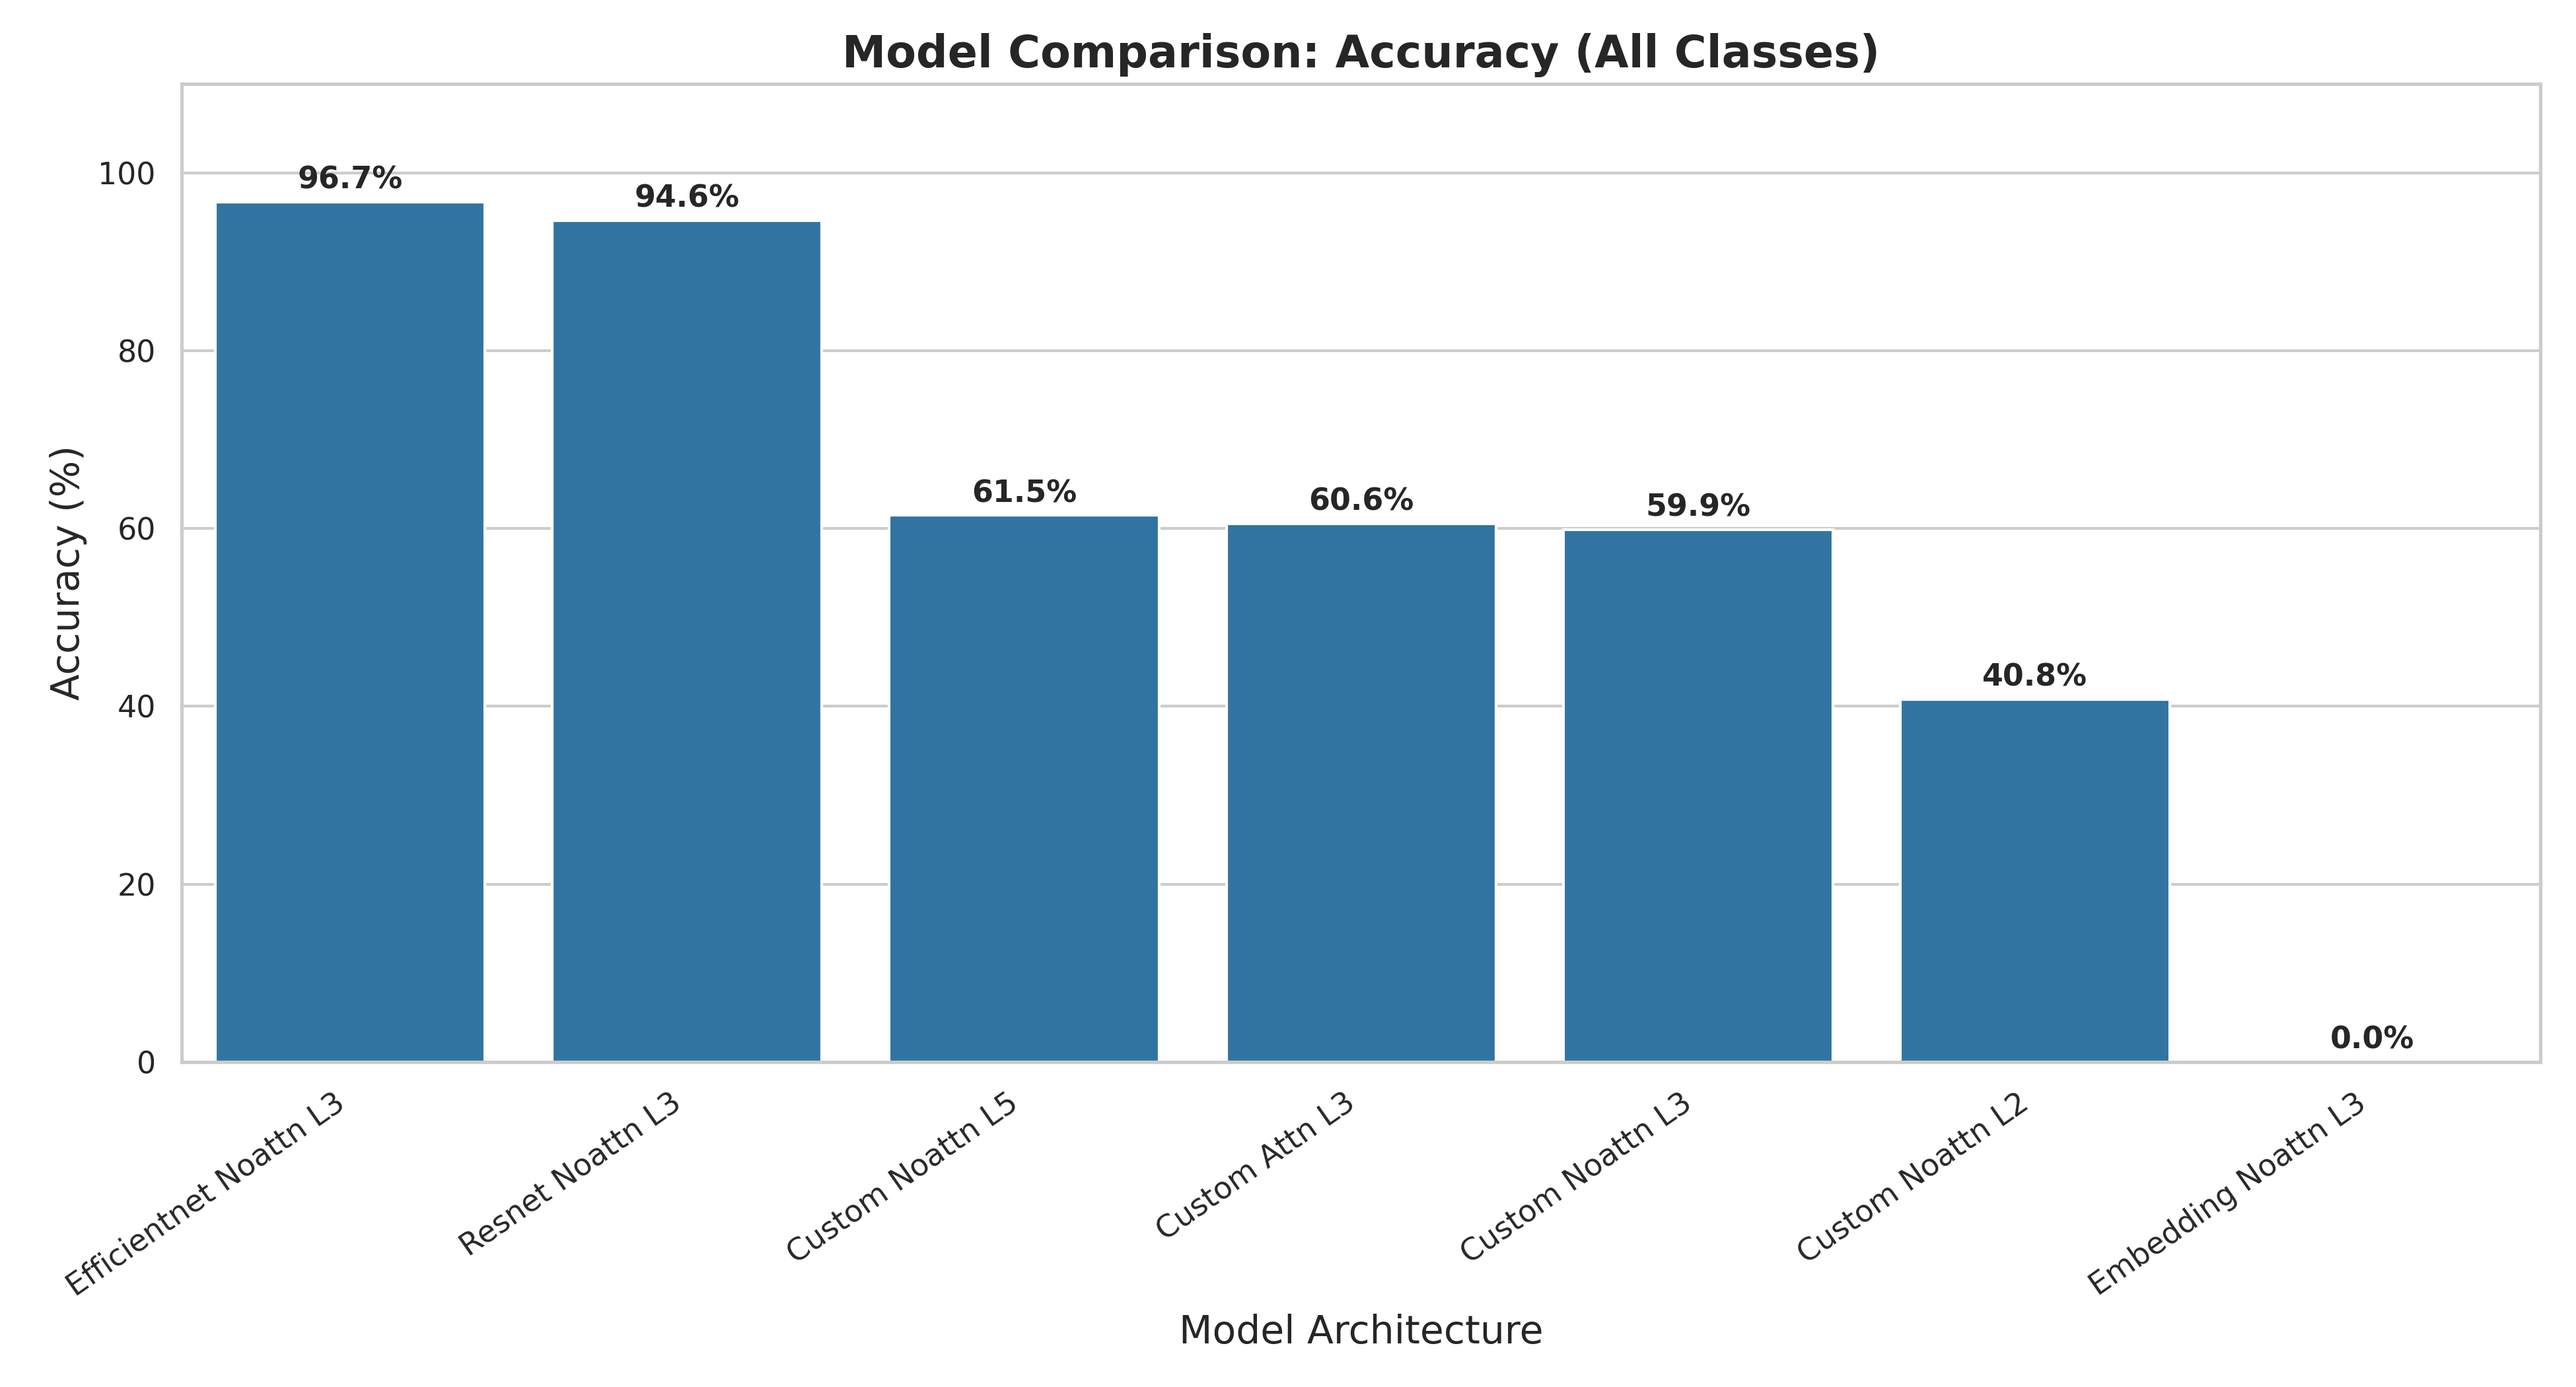
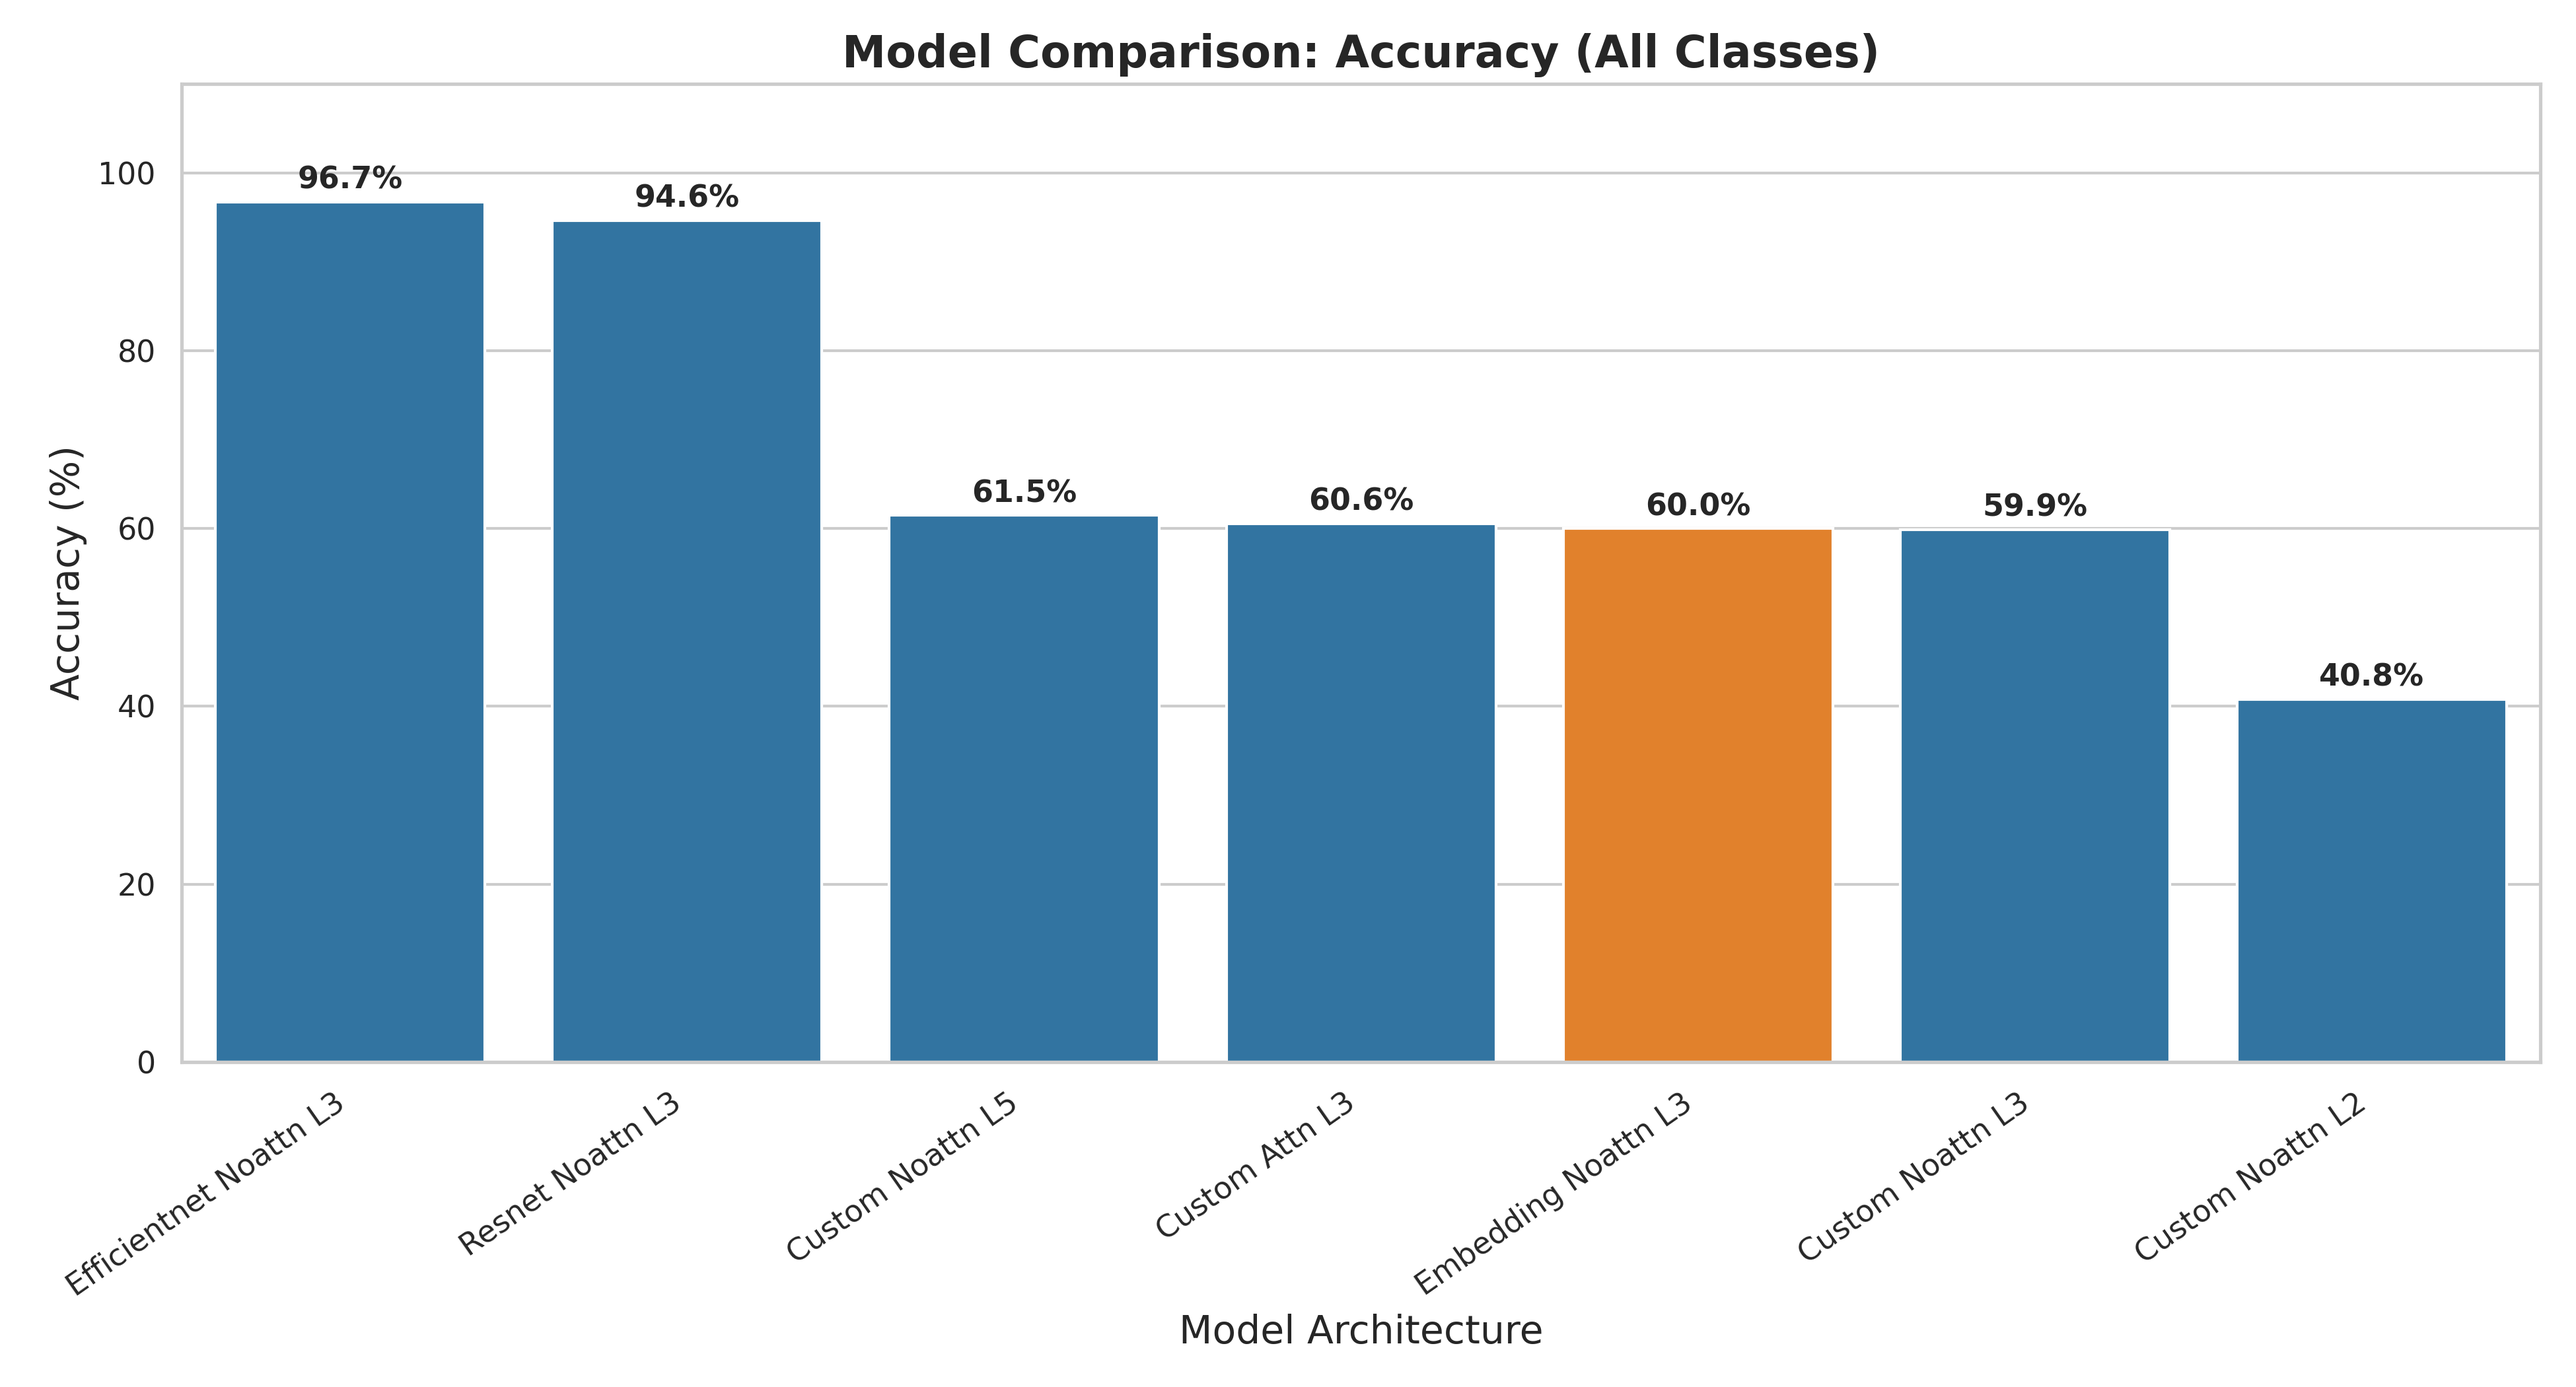
right embedding model

diff --git a/src/evaluate.py b/src/evaluate.py
@@ -1,11 +1,16 @@
 import argparse
 import json
+import os
 import torch
+import numpy as np
 import matplotlib.pyplot as plt
 import seaborn as sns
-import pandas as pd
+from tqdm import tqdm
 from torch.utils.data import DataLoader
-from sklearn.metrics import classification_report, confusion_matrix
+from sklearn.metrics import confusion_matrix
+from sklearn.neighbors import KNeighborsClassifier
+from sklearn.metrics.pairwise import cosine_similarity
+
 from config import *
 from data import SmartBirdDataset
 from models import get_model
@@ -24,14 +29,72 @@ def evaluate_model(exp_name, model_type, use_attention, cnn_layers):
     model.eval()
 
     all_preds, all_labels = [],[]
-    with torch.no_grad():
-        for inputs, labels in loader:
-            outputs = model(inputs.to(DEVICE))
-            _, preds = torch.max(outputs, 1)
-            all_preds.extend(preds.cpu().numpy())
-            all_labels.extend(labels.numpy())
 
-    acc = sum(p == l for p, l in zip(all_preds, all_labels)) / len(all_labels)
+    if model_type == "embedding":
+        all_embeddings =[]
+        with torch.no_grad():
+            for inputs, labels in tqdm(loader, desc="Extrahiere Embeddings"):
+                embeddings = model(inputs.to(DEVICE))
+                all_embeddings.extend(embeddings.cpu().numpy())
+                all_labels.extend(labels.numpy())
+
+        all_embeddings = np.array(all_embeddings)
+        all_labels = np.array(all_labels)
+
+        print("\nBerechne Genauigkeit mit K-Nearest-Neighbor (k=5)...")
+        knn = KNeighborsClassifier(n_neighbors=5, metric='cosine')
+        knn.fit(all_embeddings, all_labels)
+        knn_preds = knn.predict(all_embeddings)
+        acc_knn = sum(knn_preds == all_labels) / len(all_labels)
+
+        print("Berechne Genauigkeit mit ArcFace Klassenzentren...")
+        arcface_path = os.path.join(MODELS_DIR, f"{exp_name}_arcface.pth")
+
+        centers = np.zeros((len(classes), all_embeddings.shape[1]))
+        if os.path.exists(arcface_path):
+            print(" -> Lade gespeicherte ArcFace-Gewichte aus Datei...")
+            arcface_state = torch.load(arcface_path, map_location='cpu')
+
+            if 'W' in arcface_state:
+                centers = arcface_state['W'].numpy()
+            else:
+                centers = list(arcface_state.values())[0].numpy()
+        else:
+            print(" -> Keine ArcFace-Gewichte gefunden (Modell wurde vorher trainiert).")
+            print(" -> Berechne theoretische Klassenzentren aus den Daten als Fallback...")
+            for i in range(len(classes)):
+                class_embs = all_embeddings[all_labels == i]
+                if len(class_embs) > 0:
+                    centers[i] = np.mean(class_embs, axis=0)
+
+        centers = centers / (np.linalg.norm(centers, axis=1, keepdims=True) + 1e-8)
+
+        sims = cosine_similarity(all_embeddings, centers)
+        centroid_preds = np.argmax(sims, axis=1)
+        acc_centroid = sum(centroid_preds == all_labels) / len(all_labels)
+
+        print(f"\nErgebnisse:")
+        print(f" -> k-NN Accuracy: {acc_knn:.2%}")
+        print(f" -> Centroid / ArcFace Accuracy: {acc_centroid:.2%}")
+
+        if acc_centroid >= acc_knn:
+            all_preds = centroid_preds
+            acc = acc_centroid
+            print("=> Verwende ArcFace-Zentren für die finale Auswertung.\n")
+        else:
+            all_preds = knn_preds
+            acc = acc_knn
+            print("=> Verwende k-NN für die finale Auswertung.\n")
+
+    else:
+        with torch.no_grad():
+            for inputs, labels in tqdm(loader, desc="Evaluiere"):
+                outputs = model(inputs.to(DEVICE))
+                _, preds = torch.max(outputs, 1)
+                all_preds.extend(preds.cpu().numpy())
+                all_labels.extend(labels.numpy())
+
+        acc = sum(p == l for p, l in zip(all_preds, all_labels)) / len(all_labels)
 
     cm = confusion_matrix(all_labels, all_preds)
     plt.figure(figsize=(12, 10))
@@ -50,14 +113,14 @@ def evaluate_model(exp_name, model_type, use_attention, cnn_layers):
 def main():
     parser = argparse.ArgumentParser()
 
-    parser.add_argument("--model", choices=["custom", "resnet", "efficientnet"], required=True)
+    parser.add_argument("--model", choices=["custom", "resnet", "efficientnet", "embedding"], required=True)
     parser.add_argument("--use-attention", action="store_true")
     parser.add_argument("--cnn-layers", type=int, default=3)
     args = parser.parse_args()
 
     exp_name = f"{args.model}_task-species_attn-{args.use_attention}_layers-{args.cnn_layers}"
     acc = evaluate_model(exp_name, args.model, args.use_attention, args.cnn_layers)
-    print(f"\n {exp_name} Accuracy: {acc:.2%}")
+    print(f"\n {exp_name} Finale Accuracy: {acc:.2%}")
 
     logs_dir = os.path.join(VISUALS_DIR, "logs")
     os.makedirs(logs_dir, exist_ok=True)
@@ -68,7 +131,7 @@ def main():
         with open(cache_file, "r") as f:
             cache = json.load(f)
 
-    cache[exp_name] = acc * 100
+    cache[exp_name] = float(acc * 100)
 
     with open(cache_file, "w") as f:
         json.dump(cache, f, indent=4)

diff --git a/src/experiments/plot_top_errors.py b/src/experiments/plot_top_errors.py
@@ -17,8 +17,8 @@ from models import get_model
 
 def get_distractor_indices(classes):
     non_bird_keywords =[
-        'cricket', 'frog', 'toad', 'cicada', 'bat', 'grasshopper', 
-        'katydid', 'roesel', 'mouse', 'mole', 'shrew', 'squirrel', 
+        'cricket', 'frog', 'toad', 'cicada', 'bat', 'grasshopper',
+        'katydid', 'roesel', 'mouse', 'mole', 'shrew', 'squirrel',
         'deer', 'fox', 'wolf', 'marmot', 'locust', 'insect', 'bush-cricket'
     ]
     bird_idx, distractor_idx = [],[]
@@ -31,23 +31,22 @@ def get_distractor_indices(classes):
 
 def main():
     print("Lade Datensatz und Modell für Fehleranalyse...")
-    
+
     exp_name = "efficientnet_task-species_attn-False_layers-3"
     classes_path = os.path.join(MODELS_DIR, f"{exp_name}_classes.json")
-    
+
     with open(classes_path, "r") as f:
         classes = json.load(f)['classes']
-        
+
     bird_idx_set, distractor_idx = get_distractor_indices(classes)
 
     model = get_model("efficientnet", len(classes)).to(DEVICE)
     model.load_state_dict(torch.load(os.path.join(MODELS_DIR, f"{exp_name}_best.pth"), map_location=DEVICE))
     model.eval()
 
-    # Nutze das Test-Set
     dataset = SmartBirdDataset(mode='test', task='species')
     loader = DataLoader(dataset, batch_size=64, shuffle=False, num_workers=4)
-    
+
     error_counter = Counter()
 
     print("\nScanne Testdaten und sammle Verwechslungen...")
@@ -55,59 +54,51 @@ def main():
         for inputs, labels in tqdm(loader, desc="Evaluiere"):
             inputs = inputs.to(DEVICE)
             logits = model(inputs)
-            
-            # WICHTIG: Setze die Wahrscheinlichkeit für Insekten/Amphibien auf minus unendlich!
-            # Dadurch WIRD das Modell gezwungen, einen Vogel zu raten.
+
             logits[:, distractor_idx] = -float('inf')
-            
+
             preds = logits.argmax(dim=1).cpu().numpy()
             labels = labels.numpy()
-            
+
             for true_idx, pred_idx in zip(labels, preds):
-                # Wir werten nur Aufnahmen aus, auf denen wirklich ein Vogel zu hören ist
+
                 if true_idx in bird_idx_set:
                     if true_idx != pred_idx:
                         true_name = classes[true_idx]
                         pred_name = classes[pred_idx]
-                        # Erstelle einen lesbaren String für das Diagramm
+
                         pair_str = f"Wahr: {true_name}\nKI rät: {pred_name}"
                         error_counter[pair_str] += 1
 
-    # Hole die Top 15 Verwechslungen
     top_errors = error_counter.most_common(15)
-    
+
     if not top_errors:
         print("Keine Fehler gefunden?! Dein Modell ist zu gut.")
         return
-        
-    # Daten für Plotting vorbereiten
+
     error_labels = [item[0] for item in top_errors]
     error_counts = [item[1] for item in top_errors]
-    
-    # --- PLOTTING ---
+
     plt.figure(figsize=(12, 10))
     sns.set_theme(style="whitegrid")
-    
-    # Farbverlauf von Rot (häufigster Fehler) zu Orange
+
     palette = sns.color_palette("flare", len(error_labels))[::-1]
-    
+
     ax = sns.barplot(x=error_counts, y=error_labels, palette=palette)
-    
+
     plt.title("Die 15 häufigsten KI-Verwechslungen (Nur Vögel)", fontsize=16, fontweight='bold', pad=20)
     plt.xlabel("Anzahl der Fehlklassifikationen im Test-Set", fontsize=14)
     plt.ylabel("", fontsize=12)
-    
-    # Zahlenwerte an die Balken schreiben
+
     for i, v in enumerate(error_counts):
         ax.text(v + 0.5, i + 0.1, str(v), color='black', fontweight='bold', fontsize=12)
 
-    # Etwas Platz rechts lassen, damit die Zahlen nicht abgeschnitten werden
     plt.xlim(0, max(error_counts) * 1.15)
-    
+
     plt.tight_layout()
     out_path = os.path.join(VISUALS_DIR, "top_errors.png")
     plt.savefig(out_path, dpi=300)
-    print(f"\n✅ Erfolgreich gespeichert! Schau dir: {out_path} an.")
+    print(f"\n Erfolgreich gespeichert! Schau dir: {out_path} an.")
     print("Tipp: Du kannst das Bild direkt in dein LaTeX Dokument (main.tex) einbinden!")
 
 if __name__ == "__main__":

diff --git a/src/train.py b/src/train.py
@@ -160,6 +160,8 @@ def main():
                 best_metric = avg_val_loss
                 torch.save(model.state_dict(), os.path.join(MODELS_DIR, f"{exp_name}_best.pth"))
 
+                torch.save(criterion.state_dict(), os.path.join(MODELS_DIR, f"{exp_name}_arcface.pth"))
+
         history_log.append(epoch_stats)
         with open(os.path.join(LOGS_DIR, f"{exp_name}_history.json"), "w") as f:
             json.dump(history_log, f, indent=4)
